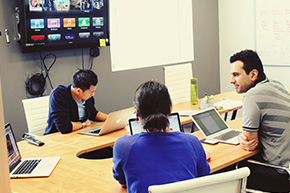
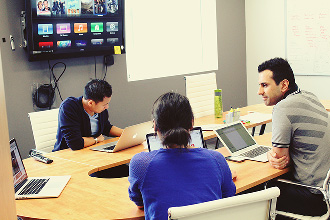
Properly sized Images
We'll need to center the images vertically and clip the images 10px
from the top and 10px from the bottom

diff --git a/src/documents/posts/The_agency_model_is_broken_Why_we_sell_teams_not_projects.html.md b/src/documents/posts/The_agency_model_is_broken_Why_we_sell_teams_not_projects.html.md
@@ -10,7 +10,7 @@ tileimg: "/images/articles/The_agency_model_is_broken_Why_we_sell_teams_not_proj
 authorimg: "/images/avatar/Dustin_Walper.png"
 author: "Dustin Walper"
 date: "2013-03-07"
-tilestyle: "image"
+tilestyle: ""
 ---
 
 In the typical model for project work at a digital agency, a contract would lay out the scope of work (often in considerable depth), the cost per deliverable, and the expected delivery date.
